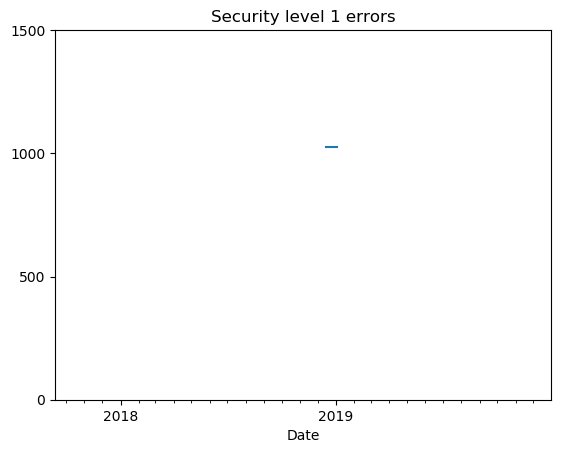
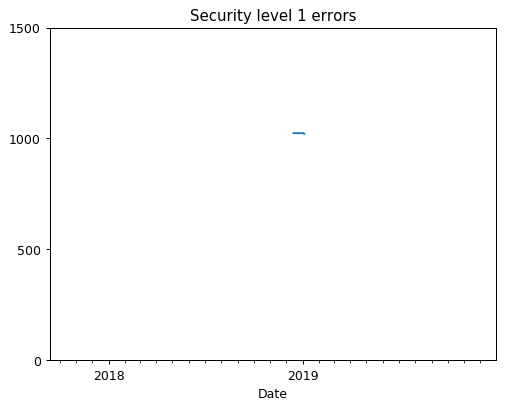
Update scale UI for visiblity on laptop screen and adjusted days to look back

Changed region(s): [[0.0, 0.0293, 1.0, 0.9389], [0.502, 0.9389, 0.561, 0.9976]]

diff --git a/QualityImprovementMonitor/mainView.py b/QualityImprovementMonitor/mainView.py
@@ -51,16 +51,16 @@ class MainView:
         self.table_row_header_style.configure("TableRowHeader.TLabel", foreground="black", background="white", font=self.small_font, width=25, anchor=W, border=1)
 
         self.table_column_header_style = Style()
-        self.table_column_header_style.configure("TableColumnHeader.TLabel", foreground="black", background="white", font=self.small_font_bold, width=8, anchor=CENTER, border=1)
+        self.table_column_header_style.configure("TableColumnHeader.TLabel", foreground="black", background="white", font=self.small_font_bold, width=6, anchor=CENTER, border=1)
 
         self.table_cell_value_up_style = Style()
-        self.table_cell_value_up_style.configure("TableCellValueUp.TLabel", foreground="white", background="red", font=self.small_font, width=8, anchor=CENTER, border=1)
+        self.table_cell_value_up_style.configure("TableCellValueUp.TLabel", foreground="white", background="red", font=self.small_font, width=6, anchor=CENTER, border=1)
 
         self.table_cell_value_down_style = Style()
-        self.table_cell_value_down_style.configure("TableCellValueDown.TLabel", foreground="white", background="green", font=self.small_font, width=8, anchor=CENTER, border=1)
+        self.table_cell_value_down_style.configure("TableCellValueDown.TLabel", foreground="white", background="green", font=self.small_font, width=6, anchor=CENTER, border=1)
 
         self.table_cell_value_unchanged_style = Style()
-        self.table_cell_value_unchanged_style.configure("TableCellValueUnchanged.TLabel", foreground="gray", background="white", font=self.extra_small_font, width=8, anchor=CENTER, border=1)
+        self.table_cell_value_unchanged_style.configure("TableCellValueUnchanged.TLabel", foreground="gray", background="white", font=self.extra_small_font, width=6, anchor=CENTER, border=1)
 
         print("begin layout ui")
 
@@ -289,7 +289,7 @@ class MainView:
         plt.yticks(np.arange(min_y, max_y, step=step_y))
 
         # save image
-        plt.savefig(graph_filename, bbox_inches='tight', dpi=100)
+        plt.savefig(graph_filename, bbox_inches='tight', dpi=90)
 
     def _update_table_values(self):
         for index in range(len(self.unit_collection.units) + 1):

diff --git a/QualityImprovementMonitor/qualityMetricsHistory.py b/QualityImprovementMonitor/qualityMetricsHistory.py
@@ -272,7 +272,7 @@ class QualityMetricsHistory:
                 actual_value = worksheet.cell(current_row, current_column).value
 
                 delta = 0
-                days_look_back = 1
+                days_look_back = 4
 
                 row = current_row
                 while delta == 0 and row > 2 and days_look_back > 0:
